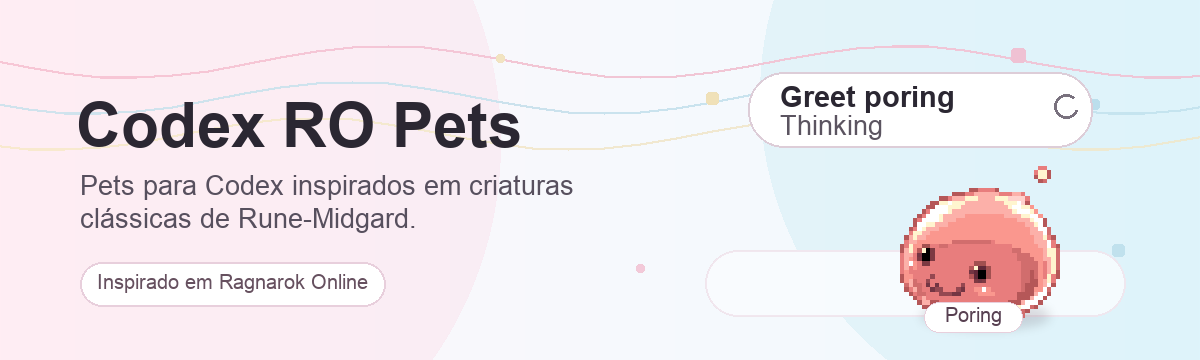
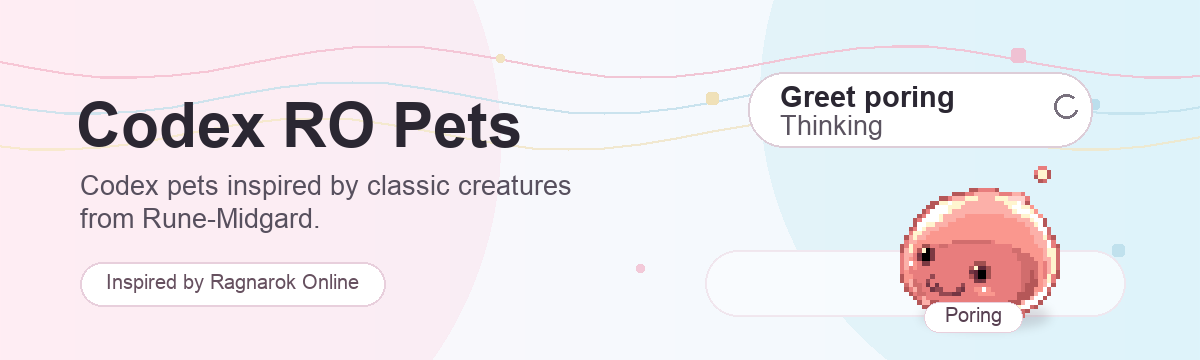
Add Munak pet and translate README

Changed region(s): [[0.0617, 0.4889, 0.4933, 0.55], [0.0617, 0.5806, 0.3392, 0.6417], [0.0617, 0.7639, 0.3083, 0.825]]

diff --git a/README.md b/README.md
@@ -2,13 +2,13 @@
 
 # Codex RO Pets
 
-Uma coleção de pets customizados para o Codex, inspirados em criaturas e personagens clássicos do universo de Ragnarok Online.
+A collection of custom Codex pets inspired by classic creatures and characters from the Ragnarok Online universe.
 
-Cada pet preserva o visual pixel art original em um atlas compatível com o formato de pets do Codex: `pet.json` + `spritesheet.webp`.
+Each pet preserves the original pixel-art look in an atlas compatible with the Codex pet format: `pet.json` + `spritesheet.webp`.
 
-## Pets incluídos
+## Included Pets
 
-| Pet        | Pasta             |
+| Pet        | Folder            |
 | ---------- | ----------------- |
 | Alice      | `pets/alice`      |
 | Atroce     | `pets/atroce`     |
@@ -24,6 +24,7 @@ Cada pet preserva o visual pixel art original em um atlas compatível com o form
 | Kafra 5    | `pets/kafra-5`    |
 | Kafra 6    | `pets/kafra-6`    |
 | Myst Case  | `pets/myst-case`  |
+| Munak      | `pets/munak`      |
 | Orc Lord   | `pets/orc-lord`   |
 | Peco Peco  | `pets/peco-peco`  |
 | Poring     | `pets/poring`     |
@@ -32,27 +33,27 @@ Cada pet preserva o visual pixel art original em um atlas compatível com o form
 | Spore      | `pets/spore`      |
 | Valkyrie   | `pets/valkyrie`   |
 
-## Instalação
+## Installation
 
-Copie um pet específico para a pasta de pets do Codex:
+Copy a specific pet into your Codex pets folder:
 
 ```sh
 mkdir -p "$HOME/.codex/pets"
 cp -R pets/poring "$HOME/.codex/pets/"
 ```
 
-Ou instale todos:
+Or install all pets:
 
 ```sh
 mkdir -p "$HOME/.codex/pets"
 cp -R pets/* "$HOME/.codex/pets/"
 ```
 
-Depois, reinicie ou recarregue o Codex para que os pets apareçam na seleção.
+Then restart or reload Codex so the pets appear in the selector.
 
-## Estrutura
+## Structure
 
-Cada diretório em `pets/` segue este formato:
+Each directory in `pets/` follows this format:
 
 ```text
 pets/<pet>/
@@ -60,15 +61,15 @@ pets/<pet>/
 └── spritesheet.webp
 ```
 
-O `spritesheet.webp` usa o atlas padrão dos pets do Codex:
+The `spritesheet.webp` file uses the standard Codex pet atlas:
 
-| Propriedade   | Valor                    |
+| Property      | Value                    |
 | ------------- | ------------------------ |
-| Tamanho total | `1536x1872`              |
-| Grade         | `8` colunas x `9` linhas |
-| Célula        | `192x208`                |
-| Fundo         | Transparente             |
+| Total size    | `1536x1872`              |
+| Grid          | `8` columns x `9` rows   |
+| Cell          | `192x208`                |
+| Background    | Transparent              |
 
-## Observações
+## Notes
 
-Este é um projeto feito por fã e não oficial. Ragnarok Online e marcas relacionadas pertencem aos seus respectivos titulares.
+This is an unofficial fan-made project. Ragnarok Online and related trademarks belong to their respective owners.
